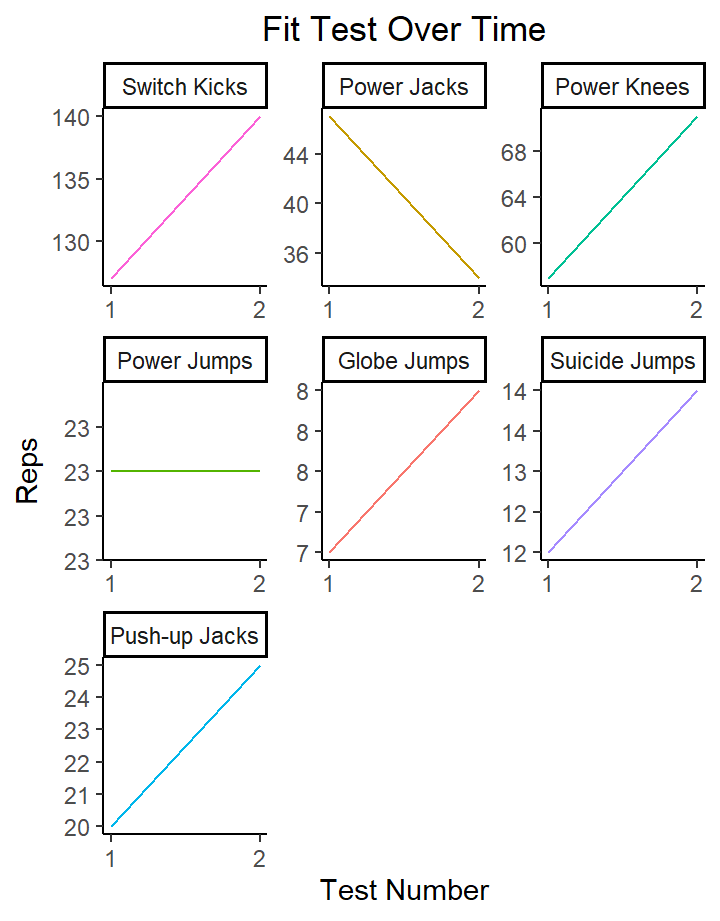
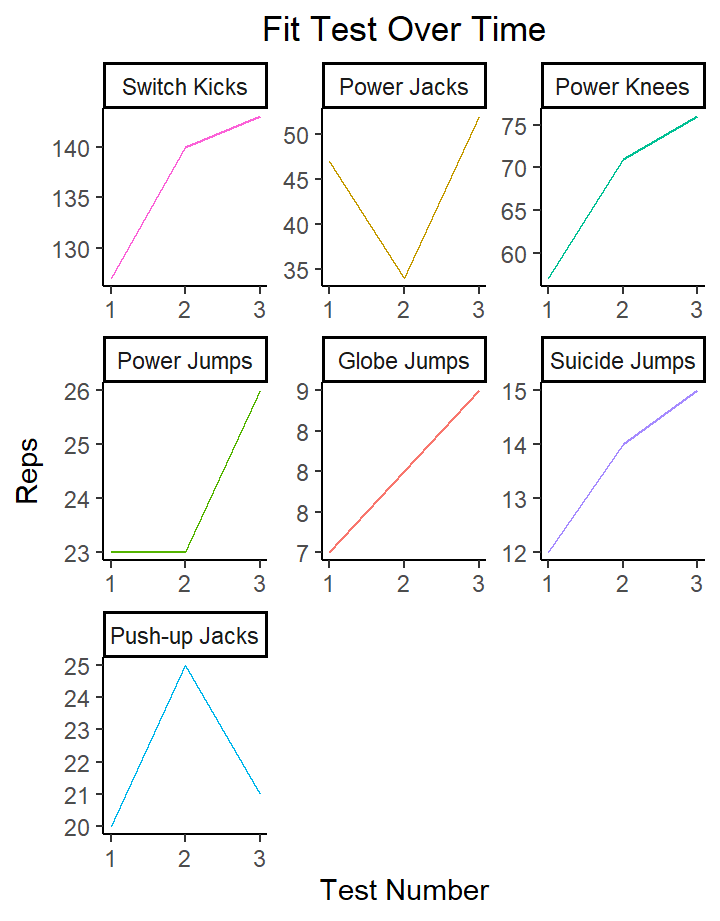
First attempt at a flex dashboard

diff --git a/docs/index.html b/docs/index.html
@@ -2651,8 +2651,8 @@ window.FlexDashboardComponents.push({
 <div class="knitr-options" data-fig-width="576" data-fig-height="460">
 
 </div>
-<div id="htmlwidget-08fb4b48765a672b9940" style="width:100%;height:auto;" class="datatables html-widget"></div>
-<script type="application/json" data-for="htmlwidget-08fb4b48765a672b9940">{"x":{"filter":"none","fillContainer":true,"data":[["1","2"],[1,2],[127,140],[47,34],[57,71],[23,23],[7,8],[12,14],[20,25],[33,35],[167.2,165]],"container":"<table class=\"display fill-container\">\n  <thead>\n    <tr>\n      <th> <\/th>\n      <th>Test Number<\/th>\n      <th>Switch Kicks<\/th>\n      <th>Power Jacks<\/th>\n      <th>Power Knees<\/th>\n      <th>Power Jumps<\/th>\n      <th>Globe Jumps<\/th>\n      <th>Suicide Jumps<\/th>\n      <th>Push-up Jacks<\/th>\n      <th>Low Plank Oblique<\/th>\n      <th>Weight<\/th>\n    <\/tr>\n  <\/thead>\n<\/table>","options":{"columnDefs":[{"className":"dt-right","targets":[1,2,3,4,5,6,7,8,9,10]},{"orderable":false,"targets":0}],"order":[],"autoWidth":false,"orderClasses":false}},"evals":[],"jsHooks":[]}</script>
+<div id="htmlwidget-d29a23d665a2478ccfda" style="width:100%;height:auto;" class="datatables html-widget"></div>
+<script type="application/json" data-for="htmlwidget-d29a23d665a2478ccfda">{"x":{"filter":"none","fillContainer":true,"data":[["1","2","3"],[1,2,3],[127,140,143],[47,34,52],[57,71,76],[23,23,26],[7,8,9],[12,14,15],[20,25,21],[33,35,42],[167.2,165,164]],"container":"<table class=\"display fill-container\">\n  <thead>\n    <tr>\n      <th> <\/th>\n      <th>Test Number<\/th>\n      <th>Switch Kicks<\/th>\n      <th>Power Jacks<\/th>\n      <th>Power Knees<\/th>\n      <th>Power Jumps<\/th>\n      <th>Globe Jumps<\/th>\n      <th>Suicide Jumps<\/th>\n      <th>Push-up Jacks<\/th>\n      <th>Low Plank Oblique<\/th>\n      <th>Weight<\/th>\n    <\/tr>\n  <\/thead>\n<\/table>","options":{"columnDefs":[{"className":"dt-right","targets":[1,2,3,4,5,6,7,8,9,10]},{"orderable":false,"targets":0}],"order":[],"autoWidth":false,"orderClasses":false}},"evals":[],"jsHooks":[]}</script>
 </div>
 
 </div>
